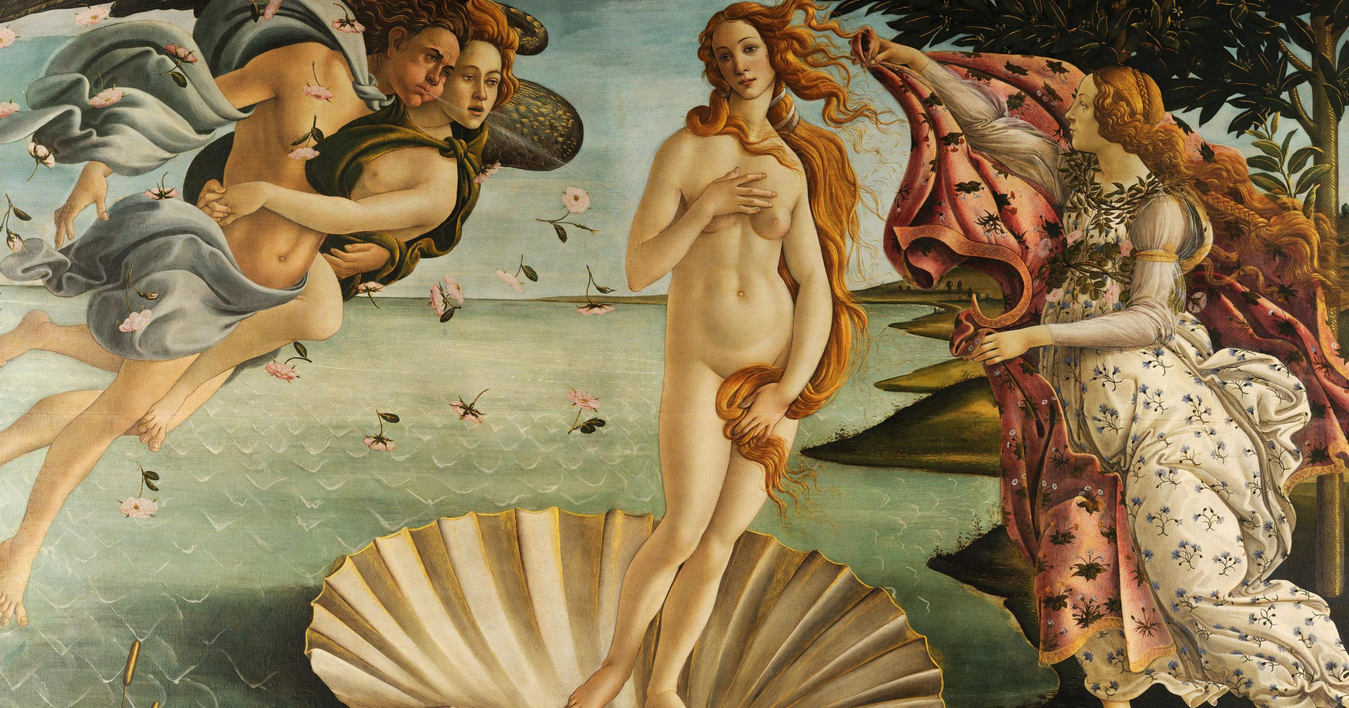
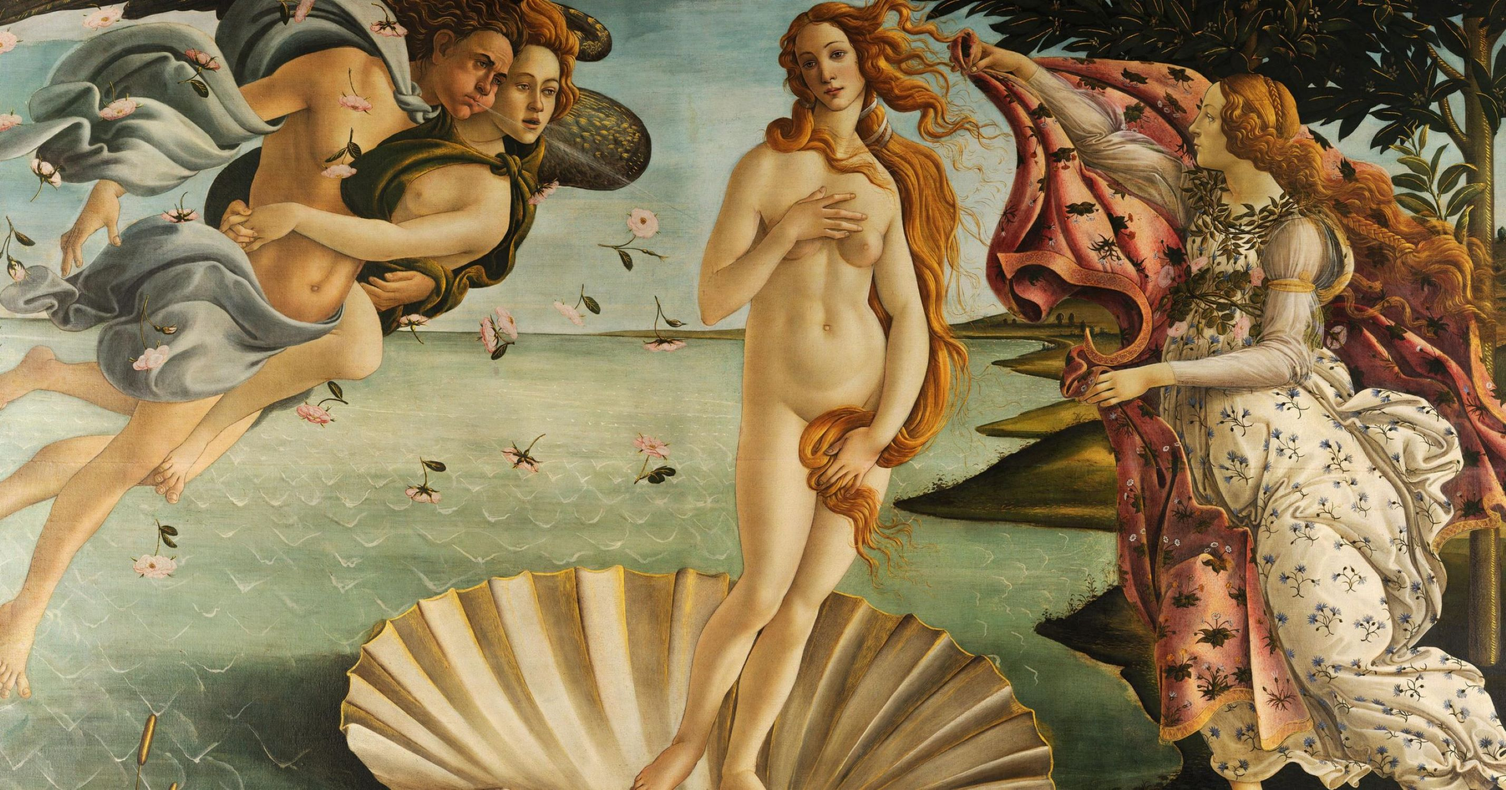
hjvhn

Changed region(s): [[0.8125, 0.2812, 0.8438, 0.3125]]

diff --git a/app/renascimento/page.jsx b/app/renascimento/page.jsx
@@ -8,10 +8,10 @@ import Link from "next/link"
 
 
 const fotos = [
-    { img: '/renas/renas.png', text: "Edgar Degas foi um pintor impressionista francês, consagrado por suas pinturas femininas, sobretudo pela série das bailarinas e também pelo efeito de movimento retratado em suas obras. Iniciou a tela 'A FAMÍLIA BALLELLI', onde retratou suas primas, sua tia Laura e seu tio Genaro. A obra só foi concluída em 1867." },
-    { img: '/renas/renascimento4.png', text: "Mary Cassatt participou do movimento impressionista e rompeu com os padrões acadêmicos, sua pintura mais famosa é 'MENINA EM UMA POLTRONA AZUL', que foi exibida na quarta exposição impressionista." },
-    { img: '/renas/renascimento3.jpg', text: "'O ALMOÇO DOS BARQUEIROS': uma obra que saia do lugar comum impressionista. Pierre-Auguste Renoir pintou este quadro entre 1880 e 1881 e chamava atenção a escolha do tema: os subúrbios." },
-    { img: '/renas/renascimento1.jpg', text: "'DIA DE VERÃO' possui características da pintura impressionista como as pinceladas grossas, Berthe escolheu uma paisagem com duas mulheres num barco, uma cena do cotidiano. Essa obra possui a influência de Éduoard Manet, que se tornou um amigo e cunhado muito intrometido, que decidia tudo sobre as pinturas de Berthe, chegando até mesmo a pintar sobre suas telas, como aconteceu em Menina no Sofá." },
+    { img: '/renas/renas1.png', text: "A obra 'A Primavera' (1482), também conhecido como Alegoria da Primavera, é um quadro do pintor Sandro Botticelli. A pintura utiliza a técnica de têmpera sobre madeira. O quadro é retarat o ritmo, a vitalidade e a leveza" },
+    { img: '/renas/renascimento3.jpg', text: "Mary Cassatt participou do movimento impressionista e rompeu com os padrões acadêmicos, sua pintura mais famosa é 'MENINA EM UMA POLTRONA AZUL', que foi exibida na quarta exposição impressionista." },
+    { img: '/renas/renascimento1.jpg', text: "'O ALMOÇO DOS BARQUEIROS': uma obra que saia do lugar comum impressionista. Pierre-Auguste Renoir pintou este quadro entre 1880 e 1881 e chamava atenção a escolha do tema: os subúrbios." },
+    { img: '/renas/renascimento4.png', text: "'DIA DE VERÃO' possui características da pintura impressionista como as pinceladas grossas, Berthe escolheu uma paisagem com duas mulheres num barco, uma cena do cotidiano. Essa obra possui a influência de Éduoard Manet, que se tornou um amigo e cunhado muito intrometido, que decidia tudo sobre as pinturas de Berthe, chegando até mesmo a pintar sobre suas telas, como aconteceu em Menina no Sofá." },
 ]
 
 
